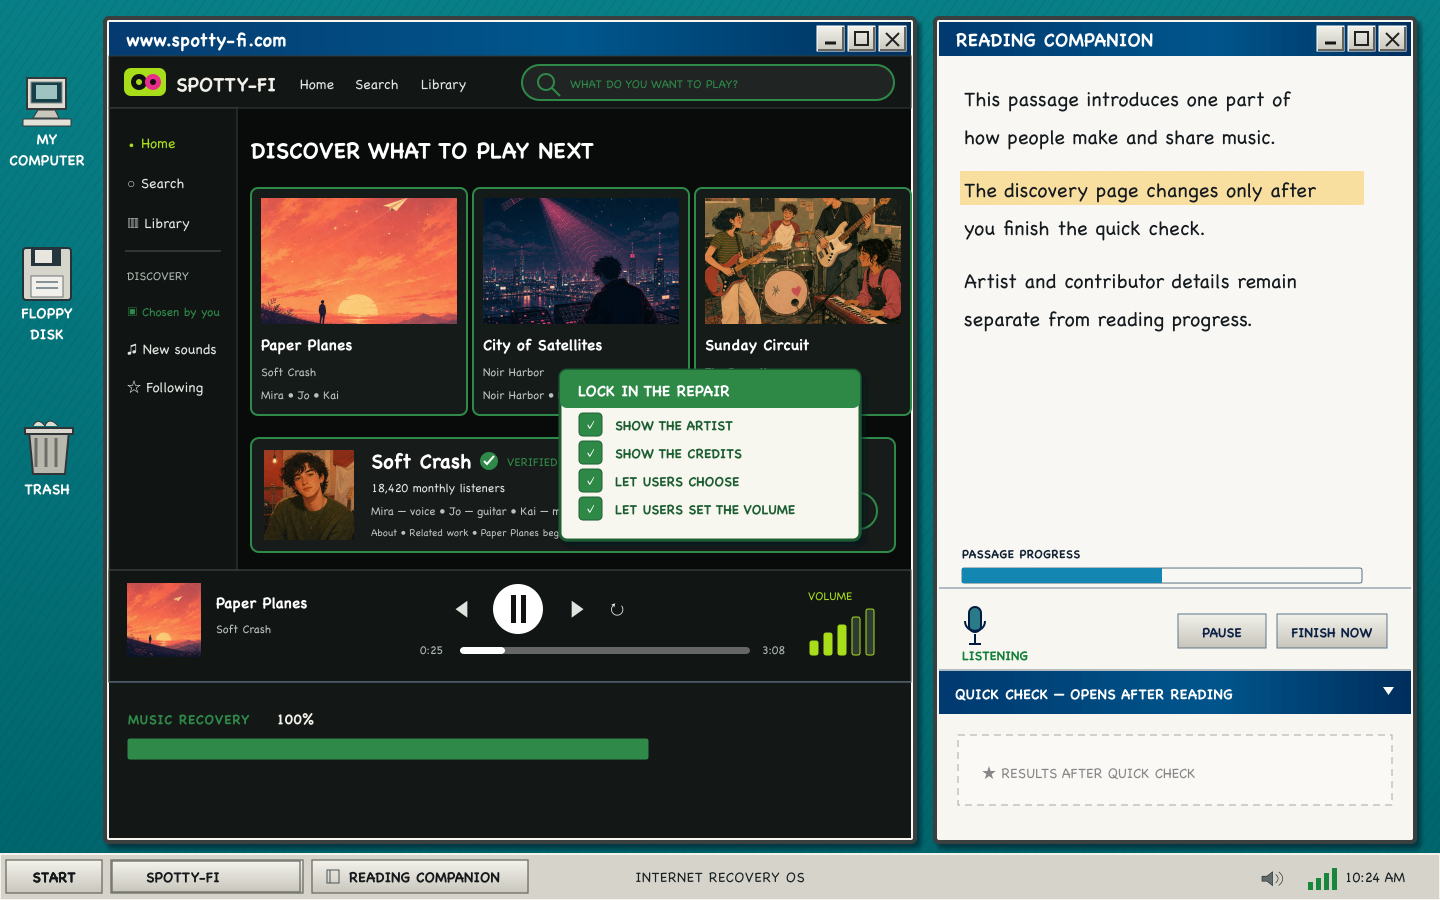
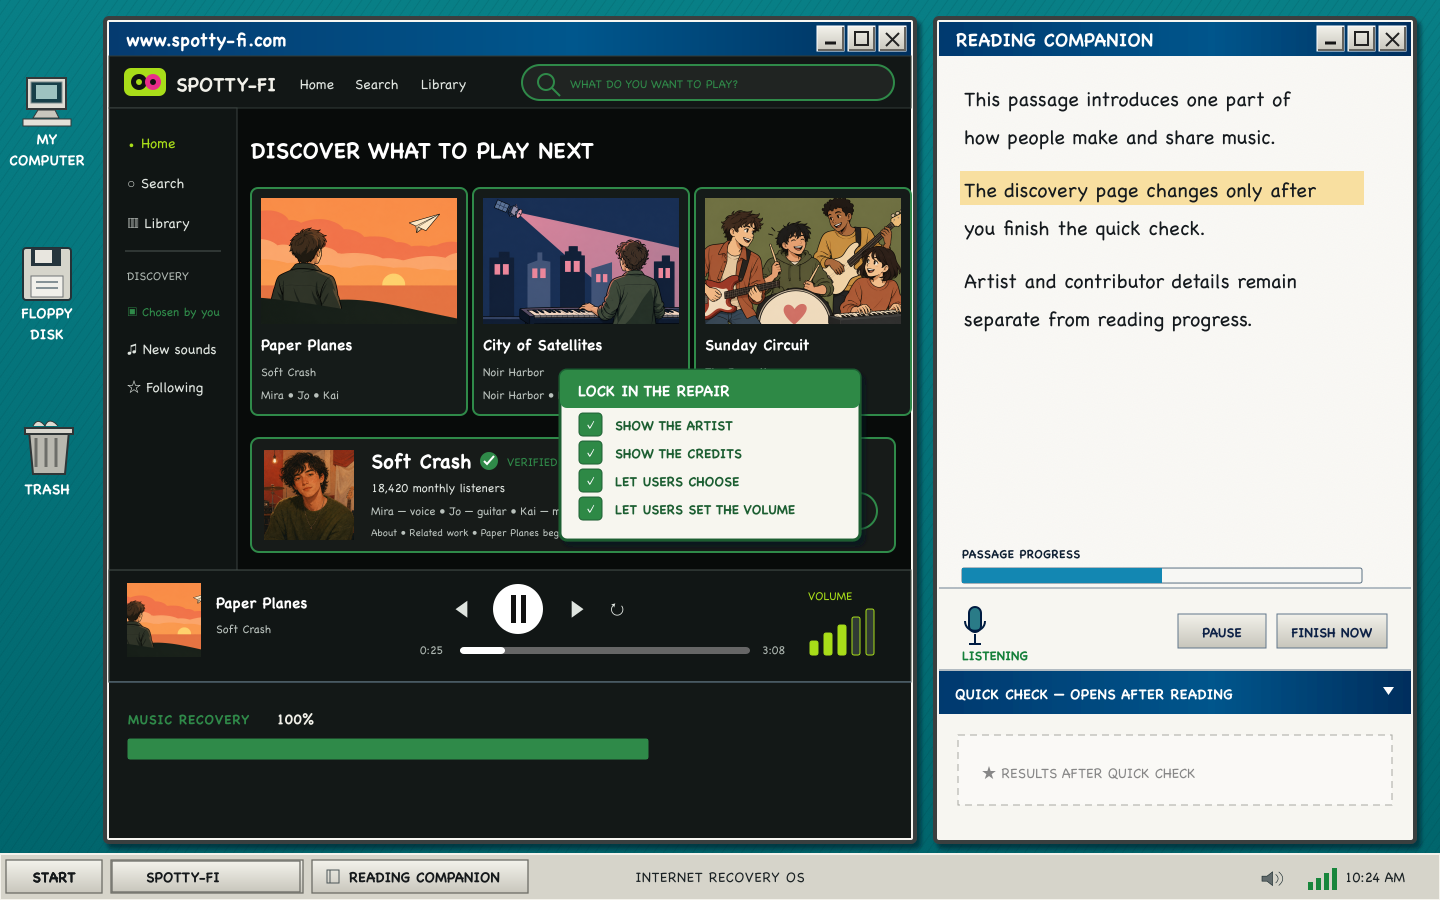
Use approved Spotty-Fi thumbnails and contain AUTO reveal inside site

Changed region(s): [[0.1562, 0.2178, 0.625, 0.3733], [0.0625, 0.6222, 0.1562, 0.7467]]

diff --git a/apps/internet-recovery/auto-overfix-transition.js b/apps/internet-recovery/auto-overfix-transition.js
@@ -5,6 +5,8 @@ export async function playAutoOverfixTransition({ stage, source, siteName }) {
   const scene = document.createElement('section');
   scene.className = 'site-auto-overfix';
   scene.setAttribute('aria-label', `AUTO is updating ${siteName}`);
+  const reveal = document.createElement('div');
+  reveal.className = 'site-auto-overfix-reveal';
   const frame = new Image();
   frame.className = 'site-auto-overfix-frame';
   frame.alt = '';
@@ -16,7 +18,8 @@ export async function playAutoOverfixTransition({ stage, source, siteName }) {
   caption.className = 'site-auto-overfix-caption';
   caption.setAttribute('role', 'status');
   caption.textContent = `AUTO is “improving” ${siteName}…`;
-  scene.append(frame, rig, caption);
+  reveal.append(frame);
+  scene.append(reveal, rig, caption);
   const siblings = [...stage.children].map(node => [node, node.inert]);
   const animations = [];
   try {
@@ -25,11 +28,11 @@ export async function playAutoOverfixTransition({ stage, source, siteName }) {
     const reduced = matchMedia('(prefers-reduced-motion: reduce)').matches;
     if (reduced) rig.classList.add('reduced-motion');
     // Hide the incoming artwork before insertion, including its first paint.
-    if (!reduced) frame.setAttribute('style', 'clip-path:inset(18px 524px 882px 106px)');
+    if (!reduced) reveal.setAttribute('style', 'height:0');
     stage.append(scene);
-    animations.push(frame.animate(reduced ? [{ opacity: 0 }, { opacity: 1 }] : [
-      { clipPath: 'inset(18px 524px 882px 106px)' },
-      { clipPath: 'inset(18px 524px 57px 106px)' },
+    animations.push(reveal.animate(reduced ? [{ opacity: 0 }, { opacity: 1 }] : [
+      { height: '0px' },
+      { height: '825px' },
     ], { duration: AUTO_OVERFIX_DURATION, fill: 'both', easing: 'linear' }));
     if (!reduced) animations.push(rig.animate([
       { left: '140px', top: '30px' },

diff --git a/desktop-chrome.css b/desktop-chrome.css
@@ -83,7 +83,8 @@
 .launcher-taskbar .signal-icon, #endgameStage .signal-icon { height:22px; width:25px; gap:3px; }
 .launcher-taskbar .signal-icon i, #endgameStage .signal-icon i { width:4px; padding:0; margin:0; }
 .site-auto-overfix { position:absolute; inset:0; z-index:90; overflow:hidden; pointer-events:all; }
-.site-auto-overfix-frame { position:absolute; inset:0; width:1440px; height:900px; object-fit:contain; clip-path:inset(18px 524px 57px 106px); }
+.site-auto-overfix-reveal { position:absolute; left:106px; top:18px; width:810px; height:825px; overflow:hidden; }
+.site-auto-overfix-frame { position:absolute; left:-106px; top:-18px; width:1440px; height:900px; max-width:none; object-fit:contain; }
 .site-auto-overfix .auto-working-rig { left:350px; top:300px; width:230px; height:230px; transition:none; }
 .site-auto-overfix-caption { position:absolute; left:270px; bottom:64px; margin:0; padding:12px 20px; border:3px solid #263d49; background:#f7f5ee; color:#172d40; font:700 20px "Chalkboard SE",sans-serif; }
 

diff --git a/apps/internet-recovery/playable-walkthroughs.js b/apps/internet-recovery/playable-walkthroughs.js
@@ -14,6 +14,7 @@ const STATIC_VOCABULARY_AUDIO_SITE_IDS = new Set([
 ]);
 
 function frame(directory, prefix, page) {
+  if (directory === "spotty-fi") return `/walkthroughs/${directory}/${prefix}_p${page}.png?v=20260921-spotty-art-v4`;
   if (directory === "mapguess") return `/walkthroughs/${directory}/${prefix}_p${page}.png?v=20260920-mapguess-layout-v6`;
   if (["viewtube", "spotty-fi", "amaze-on", "faceplace", "threadit", "searchish", "yahuh", "mycorner"].includes(directory)) return `/walkthroughs/${directory}/${prefix}_p${page}.png?v=20260920-layout-polish-v1`;
   if (directory === "wikiwhy") return `/walkthroughs/${directory}/${prefix}_p${page}.png?v=20260920-layout-polish-v1`;

diff --git a/tests/auto-overfix-transition.test.js b/tests/auto-overfix-transition.test.js
@@ -32,6 +32,7 @@ for (const reduced of [false, true]) test(`overfix awaits reveal and restores co
   assert.equal(animations.length, reduced ? 1 : 2);
   assert.ok(animations.every(animation => animation.options.duration === 5000));
   if (reduced) assert.deepEqual(animations[0].frames, [{opacity:0}, {opacity:1}]);
+  else assert.deepEqual(animations[0].frames, [{height:'0px'}, {height:'825px'}]);
   for (const animation of animations) animation.finish();
   await pending;
   assert.equal(active.inert, false); assert.equal(inert.inert, true);
